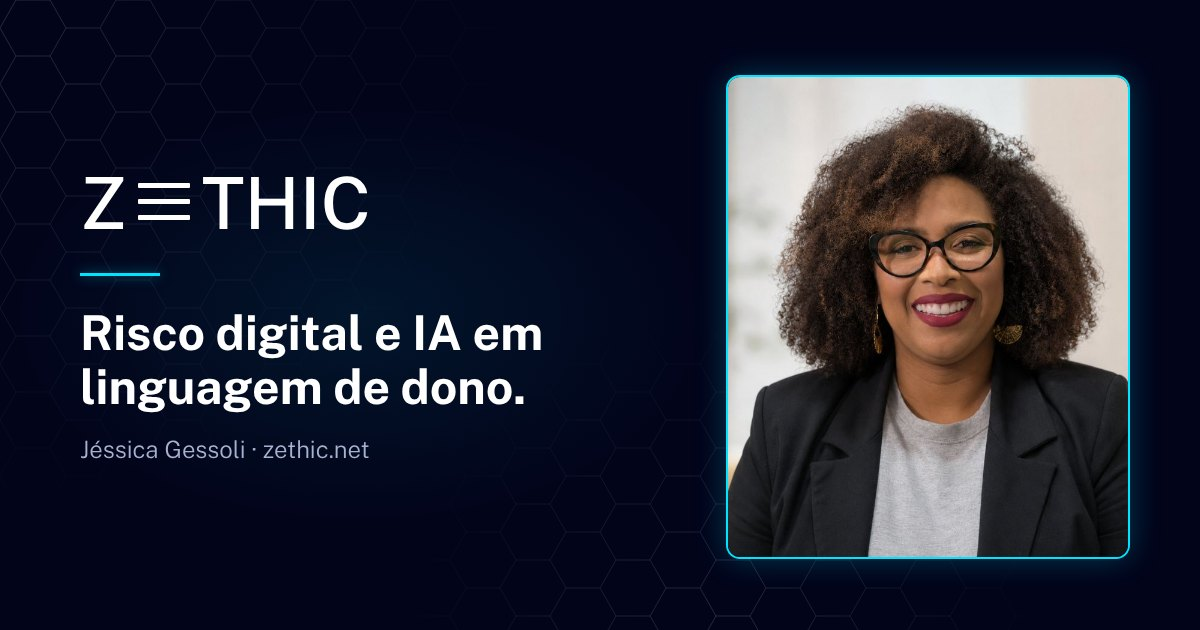
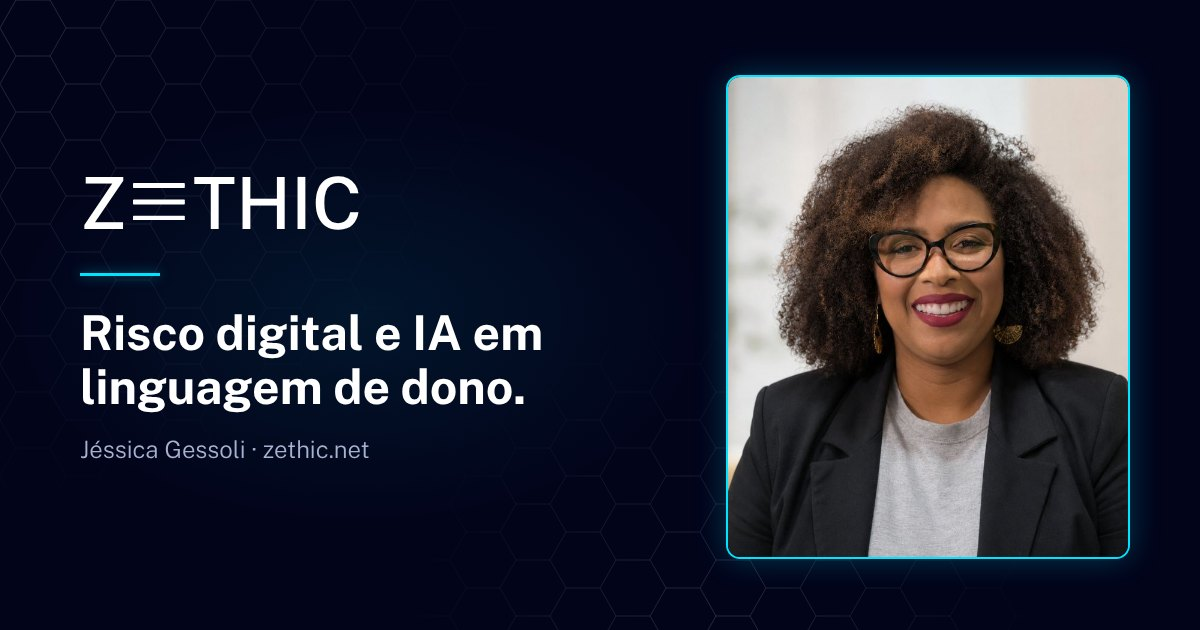
fix: acabamento da revisão (logotipo em SVG, espaçamentos, quebras, perguntas)
Claude-Session: https://claude.ai/code/session_01QsLQGM2gJjLzVRAdPTfVzq

Changed region(s): [[0.1233, 0.2714, 0.3083, 0.3619]]

diff --git a/index.html b/index.html
@@ -22,6 +22,7 @@
 <meta name="twitter:card" content="summary_large_image">
 <link rel="preload" href="/assets/fonts/public-sans-latin-400-normal.woff2" as="font" type="font/woff2" crossorigin>
 <link rel="preload" href="/assets/fonts/public-sans-latin-700-normal.woff2" as="font" type="font/woff2" crossorigin>
+<link rel="preload" href="/assets/fonts/public-sans-latin-500-normal.woff2" as="font" type="font/woff2" crossorigin>
 <link rel="icon" href="/assets/img/zethic-marca.svg" type="image/svg+xml">
 <link rel="icon" href="/assets/img/zethic-marca-32.png" type="image/png" sizes="32x32">
 <link rel="apple-touch-icon" href="/assets/img/zethic-marca-180.png">
@@ -69,15 +70,14 @@
   .hex::before{content:"";position:absolute;inset:0;z-index:-1;pointer-events:none;background:var(--hex);
     -webkit-mask-image:radial-gradient(circle at 0 0,#000,transparent 38%),radial-gradient(circle at 100% 100%,#000,transparent 38%);
     mask-image:radial-gradient(circle at 0 0,#000,transparent 38%),radial-gradient(circle at 100% 100%,#000,transparent 38%)}
-  .skip{position:absolute;left:1rem;top:-3rem;z-index:20;background:var(--cyan);color:var(--navy);padding:.6rem 1rem;border-radius:6px;font-weight:700;text-decoration:none}
-  .skip:focus{top:1rem}
+  .skip{position:absolute;left:1rem;top:1rem;transform:translateY(-200%);z-index:20;background:var(--cyan);color:var(--navy);padding:.6rem 1rem;border-radius:6px;font-weight:700;text-decoration:none}
+  .skip:focus{transform:none}
 
   /* Logotipo: Z ≡ THIC, com o E em três barras (branca, ciano, branca) */
-  /* Logotipo principal (Seção 01 do PDF): Public Sans Medium, E em três barras da cor das letras,
-     bloco de barras com ~70% da altura das maiúsculas, centralizado nelas. */
+  /* Logotipo principal (Seção 01 do PDF): Public Sans Medium; o E são três barras da cor das letras,
+     com ~70% da altura das maiúsculas, centralizadas nelas. A marca reduzida (favicon) usa a barra do meio ciano. */
   .logo{display:inline-flex;align-items:flex-start;font-weight:500;font-size:1.75rem;letter-spacing:0;line-height:1;text-decoration:none;color:var(--white)}
-  .logo-e{display:flex;flex-direction:column;justify-content:space-between;width:.72em;height:.525em;margin:.22em .16em 0}
-  .logo-e i{display:block;height:.07em;min-height:2px;border-radius:.02em;background:currentColor}
+  .logo-e{display:block;flex:none;width:.72em;height:.525em;margin:.22em .11em 0 .09em;fill:currentColor}
 
   .btn{display:inline-block;padding:.95rem 1.5rem;border-radius:6px;font-weight:700;font-size:1rem;text-decoration:none;line-height:1.2}
   .btn-main{background:var(--cyan);color:var(--navy)}
@@ -116,6 +116,7 @@
   @media (max-width:30rem){.coins{grid-template-columns:repeat(2,minmax(0,1fr));max-width:19rem;gap:1.2rem 1.4rem}.coin:nth-child(3n+2){transform:none}.coin:nth-child(even){transform:translateY(1.4rem)}.coin{font-size:.86rem}}
   .coins-caption{max-width:26rem;margin:2.2rem 0 0 auto;font-size:.9rem;font-weight:300;color:var(--ice)}
   @media (max-width:56rem){.coins,.coins-caption{margin-left:0}}
+  @media (max-width:30rem){.coins-caption{margin-top:3rem}}
   @media (prefers-reduced-motion:no-preference){
     .coin{animation:cunhar .6s cubic-bezier(.2,.7,.2,1) both}
     .coin:nth-child(1){animation-delay:.15s}.coin:nth-child(2){animation-delay:.3s}.coin:nth-child(3){animation-delay:.45s}
@@ -207,7 +208,7 @@
   details{border-bottom:1px solid var(--line)}
   summary{cursor:pointer;list-style:none;padding:1.15rem 2.5rem 1.15rem 0;position:relative;font-weight:600;font-size:1.05rem}
   summary::-webkit-details-marker{display:none}
-  summary::after{content:"+"/"";position:absolute;right:.3rem;top:50%;translate:0 -50%;font-weight:300;font-size:1.8rem;color:var(--cyan);line-height:1;transition:transform .2s}
+  summary::after{content:"+";content:"+"/"";position:absolute;right:.3rem;top:50%;translate:0 -50%;font-weight:300;font-size:1.8rem;color:var(--cyan);line-height:1;transition:rotate .2s}
   details[open] summary::after{rotate:45deg}
   @media (prefers-reduced-motion:reduce){summary::after{transition:none}}
   details p{color:var(--ice);margin:0 0 1.2rem;max-width:64ch}
@@ -221,7 +222,7 @@
   .contact dd{margin:0;word-break:break-word}
 
   footer{background:var(--navy);color:var(--ice);font-weight:300;font-size:.85rem;padding:2.2rem 0 2rem;border-top:1px solid var(--line)}
-  footer .logo{font-size:1.2rem;margin-bottom:1rem}
+  footer .logo{font-size:1.5rem;margin-bottom:1rem}
   footer p{margin:0 0 .3rem}
 </style>
 </head>
@@ -231,7 +232,7 @@
 
 <header>
   <div class="wrap bar">
-    <a class="logo" href="#inicio" aria-label="Zethic, início"><span aria-hidden="true">Z</span><span class="logo-e" aria-hidden="true"><i></i><i></i><i></i></span><span aria-hidden="true">THIC</span></a>
+    <a class="logo" href="#inicio" aria-label="Zethic, início"><span aria-hidden="true">Z</span><svg class="logo-e" viewBox="0 0 72 52.5" aria-hidden="true" focusable="false"><rect width="72" height="7" rx="1"/><rect y="22.75" width="72" height="7" rx="1"/><rect y="45.5" width="72" height="7" rx="1"/></svg><span aria-hidden="true">THIC</span></a>
     <nav aria-label="Seções">
       <a href="#servicos">Serviços</a>
       <a href="#como-funciona">Como funciona</a>
@@ -251,10 +252,10 @@
         <h1>Risco digital e IA em linguagem de dono.</h1>
         <p class="lead">Golpe, sistema parado, vazamento de dados e uso de IA viram decisão de negócio: o que protege o caixa, a operação e os contratos da sua empresa.</p>
         <div class="hero-ctas">
-          <a class="btn btn-main" href="/fale?utm_source=site">Agendar o Diagnóstico 6 Moedas</a>
+          <a class="btn btn-main" href="/fale?utm_source=site">Agendar o Diagnóstico 6&nbsp;Moedas</a>
           <a class="btn btn-line" href="#servicos">Ver os serviços</a>
         </div>
-        <small>Atendimento remoto a partir de Campinas, SP.</small>
+        <small>Atendimento remoto a partir de Campinas,&nbsp;SP.</small>
       </div>
       <div>
         <ul class="coins" role="list" aria-label="As 6 Moedas de Negócio">
@@ -426,7 +427,7 @@
           <div><dt>Contatos registrados</dt><dd class="zero">0</dd></div>
           <div><dt>Receita atribuída</dt><dd class="zero">0</dd></div>
         </dl>
-        <p class="note"><strong>Leitura.</strong> Há sinal de interesse, mas nenhuma conversão comprovada. Para atribuir a origem, é preciso marcar a origem nos links e registrar a entrada dos contatos. Sem isso, qualquer número de conversão seria estimativa apresentada como fato.</p>
+        <p class="note"><strong>Leitura.</strong> Há sinal de interesse, mas nenhuma conversão comprovada. Para saber de onde veio cada contato, é preciso marcar a origem nos links e registrar a entrada dos contatos. Sem isso, qualquer número de conversão seria estimativa apresentada como fato.</p>
       </div>
     </div>
   </section>
@@ -519,7 +520,7 @@
 
 <footer>
   <div class="wrap">
-    <div class="logo" role="img" aria-label="Zethic"><span aria-hidden="true">Z</span><span class="logo-e" aria-hidden="true"><i></i><i></i><i></i></span><span aria-hidden="true">THIC</span></div>
+    <div class="logo" role="img" aria-label="Zethic"><span aria-hidden="true">Z</span><svg class="logo-e" viewBox="0 0 72 52.5" aria-hidden="true" focusable="false"><rect width="72" height="7" rx="1"/><rect y="22.75" width="72" height="7" rx="1"/><rect y="45.5" width="72" height="7" rx="1"/></svg><span aria-hidden="true">THIC</span></div>
     <p>© 2026 Zethic. Razão social: Jessica Caroline da Silva Secco Gessoli, Microempreendedor Individual (MEI).</p>
     <p>CNPJ 67.678.226/0001-17. Campinas, São Paulo, Brasil.</p>
   </div>
